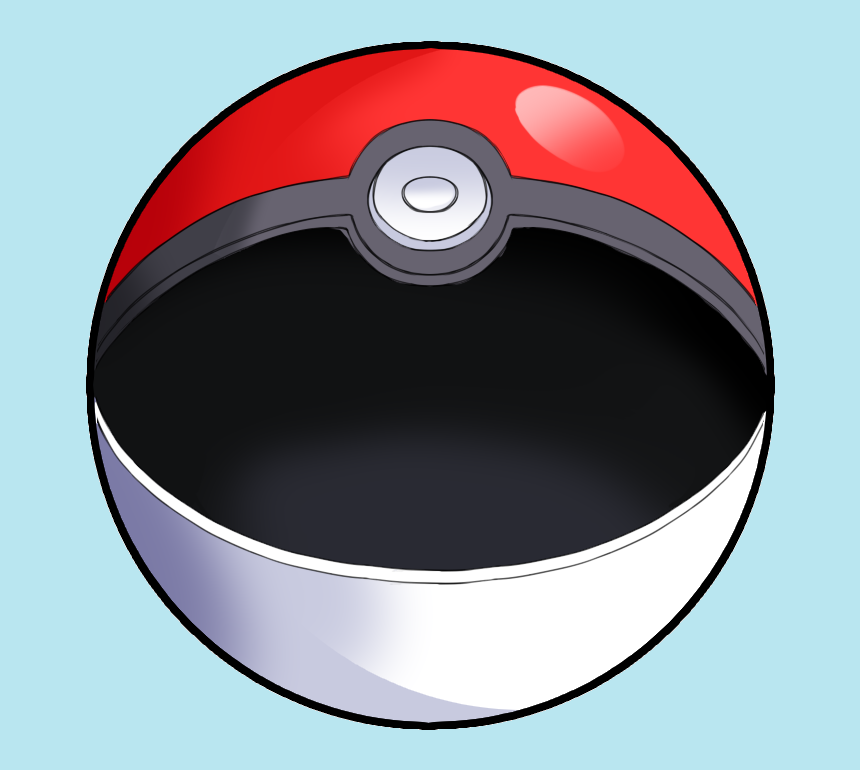
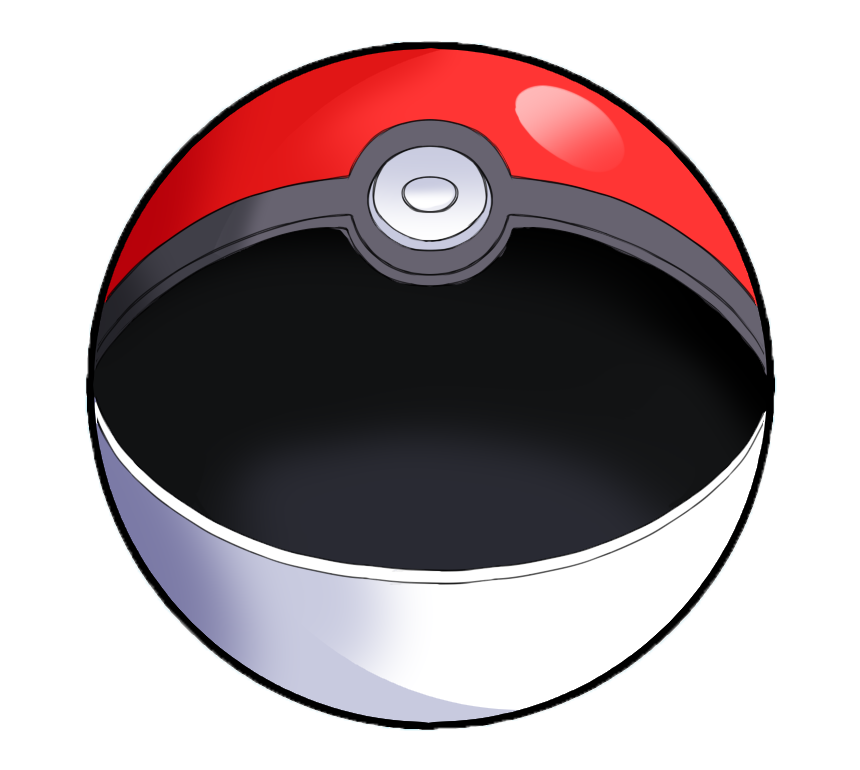
background color removed, Obi-wan quote removed

diff --git a/src/pages/About.js b/src/pages/About.js
@@ -81,9 +81,7 @@ export default function About() {
       </div>
 
       <section className="form">
-        <p>
-          "You didnt notice this color change" <span>Obi-Wan-Kenobi</span>
-        </p>
+        <p>Use this form if you feel like your vote wasn't considered</p>
         <div className="contact-form">
           <label htmlFor="First name">First name</label>
           <input
